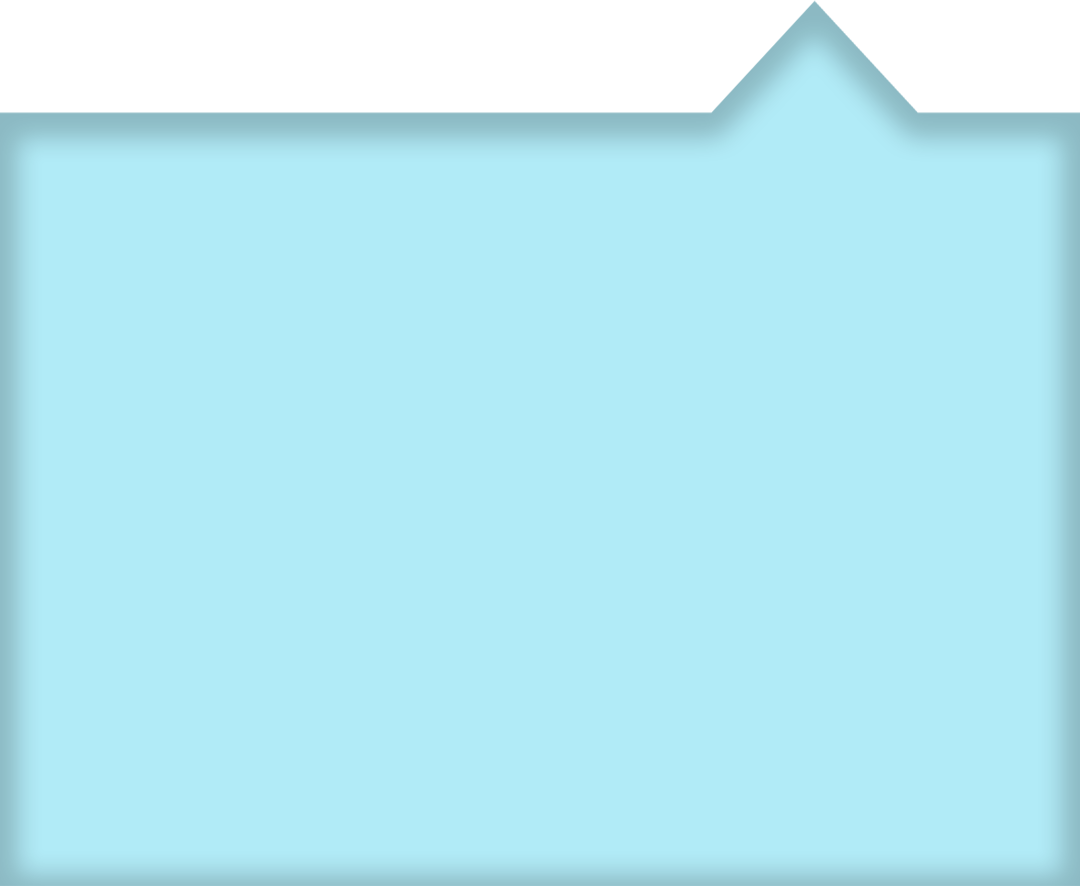
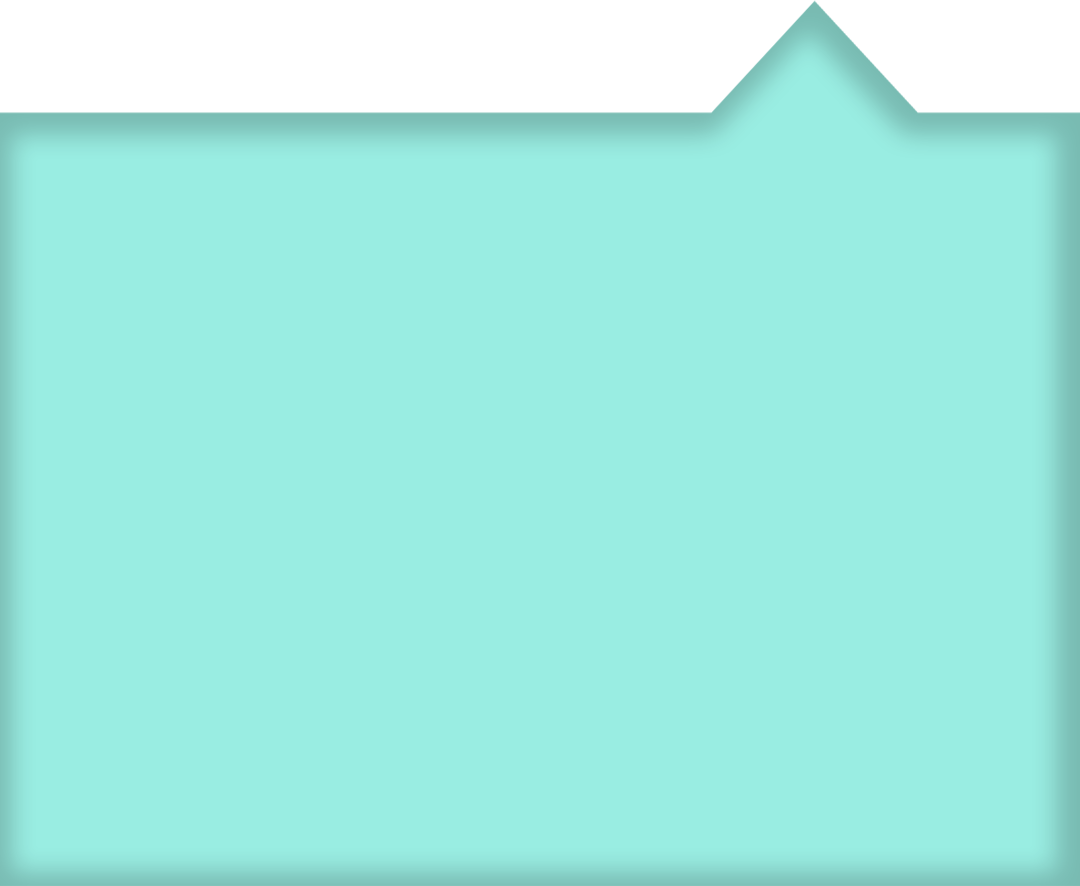
GUI color update

Changed region(s): [[0.0306, 0.1524, 1.0, 1.0], [0.7639, 0.0609, 0.825, 0.1828]]

diff --git a/gui/pages/decode_main.html b/gui/pages/decode_main.html
@@ -9,8 +9,8 @@
 </head>
 
 <body>
-    <div class="rubric mod-banner">
-        <h1>Spycraft Toolkit</h1>
+    <div class="rubric mod-banner mod-copper">
+        <h1>Sypher</h1>
     </div>
     <div class="tabs">
         <div class="tabs-container">
@@ -41,7 +41,7 @@
             aliqua. Ut enim ad minim veniam, quis nostrud exercitation ullamco laboris nisi ut aliquip ex ea commodo consequat.
             Duis aute irure dolor in reprehenderit in voluptate velit esse cillum dolore eu fugiat nulla pariatur.
         </p>
-        <div class="next-button mod-absolute mod-siennaorange">
+        <div class="next-button mod-absolute mod-copperfield">
             <h3>NEXT</h3>
         </div>
     </div>
@@ -50,7 +50,7 @@
             an idque probatus facilisis, numquam inermis id his, mei quod dignissim ut. Ex mei noster latine mandamus. Qui
             ex docendi similique, vim at ullum inimicus.
         </p>
-        <a href="./decode_upload_image.html" class="next-button mod-absolute mod-siennaorange">
+        <a href="./decode_upload_image.html" class="next-button mod-absolute mod-copperfield">
             <h3>NEXT</h3>
         </a>
     </div>

diff --git a/gui/pages/encode_main.html b/gui/pages/encode_main.html
@@ -9,8 +9,8 @@
 </head>
 
 <body>
-    <div class="rubric mod-banner">
-        <h1>Spycraft Toolkit</h1>
+    <div class="rubric mod-banner mod-elm">
+        <h1>Sypher</h1>
     </div>
     <div class="tabs">
         <div class="tabs-container mod-encode">
@@ -40,7 +40,7 @@
             aliqua. Ut enim ad minim veniam, quis nostrud exercitation ullamco laboris nisi ut aliquip ex ea commodo consequat.
             Duis aute irure dolor in reprehenderit in voluptate velit esse cillum dolore eu fugiat nulla pariatur.
         </p>
-        <div class="next-button mod-absolute mod-royalblue">
+        <div class="next-button mod-absolute mod-keppel">
             <h3>NEXT</h3>
         </div>
     </div>
@@ -49,7 +49,7 @@
             an idque probatus facilisis, numquam inermis id his, mei quod dignissim ut. Ex mei noster latine mandamus. Qui
             ex docendi similique, vim at ullum inimicus.
         </p>
-        <a href="./encode_text_to_image.html" class="next-button mod-absolute mod-royalblue">
+        <a href="./encode_text_to_image.html" class="next-button mod-absolute mod-keppel">
             <h3>NEXT</h3>
         </a>
     </div>

diff --git a/gui/css/layout/layout.less b/gui/css/layout/layout.less
@@ -83,13 +83,21 @@ body {
     z-index: 100;
 
     &.mod-banner {
-      box-shadow: inset 0 -8px 14px -5px rgba(0, 0, 0, 0.3);
-      -moz-box-shadow: inset 0 -8px 14px -5px rgba(0, 0, 0, 0.3);
-      -webkit-box-shadow: inset 0 -8px 14px -5px rgba(0, 0, 0, 0.3);
+      background-color: @orange;
+      color: @white;
 
       h1 {
+        font-weight: 50;
         padding: 5%;
       }
+    }
+
+    &.mod-elm {
+      background-color: @elm;
+    }
+
+    &.mod-copper {
+      background-color: @copper;
     }
 
     &.mod-title {
@@ -140,13 +148,13 @@ body {
     &.mod-absolute {
       position: absolute;
     }
-    &.mod-royalblue {
-      background-color: @royalblue;
+    &.mod-keppel {
+      background-color: @keppel;
       text-decoration: none;
     }
 
-    &.mod-siennaorange {
-      background-color: @siennaorange;
+    &.mod-copperfield {
+      background-color: @copperfield;
       text-decoration: none;
     }
 

diff --git a/gui/js/browse.js b/gui/js/browse.js
@@ -3,7 +3,7 @@ function encodeEmptyUpload() {
     document.getElementById("next").style.backgroundColor = "#c0c0c0";
     document.getElementById("link").href = "";
   } else {
-    document.getElementById("next").style.backgroundColor = "#535ae8";
+    document.getElementById("next").style.backgroundColor = "#35B0AB";
     document.getElementById("link").href = "./encode_download.html";
   }
   window.setTimeout("encodeEmptyUpload();", 1000 * 0.1);
@@ -14,7 +14,7 @@ function decodeEmptyUpload() {
     document.getElementById("next").style.backgroundColor = "#c0c0c0";
     document.getElementById("link").href = "";
   } else {
-    document.getElementById("next").style.backgroundColor = "#e88e53";
+    document.getElementById("next").style.backgroundColor = "#DD8968";
     document.getElementById("link").href = "./decode_download.html";
   }
   window.setTimeout("decodeEmptyUpload();", 1000 * 0.1);

diff --git a/gui/css/layout/global.less b/gui/css/layout/global.less
@@ -16,21 +16,21 @@ body {
 
       &.mod-encode {
         h2 {
-          color: @blue;
+          color: @elm;
           text-decoration: none;
         }
         hr {
-          border: 2px solid @blue;
+          border: 2px solid @elm;
         }
       }
 
       &.mod-decode {
         h2 {
-          color: @orange;
+          color: @copper;
           text-decoration: none;
         }
         hr {
-          border: 2px solid @orange;
+          border: 2px solid @copper;
         }
       }
     }

diff --git a/gui/js/textbox.js b/gui/js/textbox.js
@@ -4,7 +4,7 @@ function emptyTextbox() {
         document.getElementById("link").href = ""
     }
     else {
-        document.getElementById("next").style.backgroundColor = "#535ae8"
+        document.getElementById("next").style.backgroundColor = "#35B0AB"
         document.getElementById("link").href = "encode_upload_image.html"
     }   
     window.setTimeout("emptyTextbox();", 1000*0.1);

diff --git a/gui/pages/encode_text_to_image.html b/gui/pages/encode_text_to_image.html
@@ -24,7 +24,7 @@
         <div class="textbox-input">
             <textarea onfocus="notEmpty()" id="textbox" placeholder="Enter text to be encoded..."></textarea>
         </div>
-        <footer id="next" class="next-button mod-royalblue">
+        <footer id="next" class="next-button mod-keppel">
             <a href="" id="link">
                 <h3>NEXT</h3>
             </a>

diff --git a/gui/css/base/colors.less b/gui/css/base/colors.less
@@ -8,6 +8,9 @@
 
 /* Encode Colors */
 
+@elm: #226B80;
+@keppel: #35B0AB;
+
 @blue: #0098f8;
 @babyblue: #aeebf8;
 @malibublue: #79cbff;
@@ -17,7 +20,14 @@
 
 /* Decode Colors */
 
+@copper: #A44A4A;
+@copperfield: #DD8968;
+
 @orange: #ff9c00;
 @yelloworage: #ffa63c;
 @babyorange: #ffcb8d;
 @siennaorange: #e88e53; /* NEXT button */
+
+
+
+

diff --git a/gui/pages/decode_upload_image.html b/gui/pages/decode_upload_image.html
@@ -32,7 +32,7 @@
                 </div>
             </div>
         </div>
-        <footer id="next" class="next-button mod-siennaorange">
+        <footer id="next" class="next-button mod-copperfield">
             <a href="./decode_download.html" id="link">
                 <input type="submit" value="NEXT">
             </a>

diff --git a/gui/pages/encode_upload_file.html b/gui/pages/encode_upload_file.html
@@ -33,7 +33,7 @@
                 </div>
             </div>
         </div>
-        <footer id="next" class="next-button mod-royalblue">
+        <footer id="next" class="next-button mod-keppel">
             <a href="./encode_upload_image.html" id="link">
                 <input type="submit" value="NEXT">
             </a>

diff --git a/gui/pages/encode_upload_image.html b/gui/pages/encode_upload_image.html
@@ -32,7 +32,7 @@
                 </div>
             </div>
         </div>
-        <footer id="next" class="next-button mod-royalblue">
+        <footer id="next" class="next-button mod-keppel">
             <a href="./encode_download.html" id="link">
                 <input type="submit" value="NEXT">
             </a>

diff --git a/gui/pages/decode_download.html b/gui/pages/decode_download.html
@@ -34,7 +34,7 @@
                 </div>
             </div>
         </div>
-        <footer id="" class="next-button mod-siennaorange">
+        <footer id="" class="next-button mod-copperfield">
             <a href="" id="link">
                 <input type="submit" value="???">
             </a>
